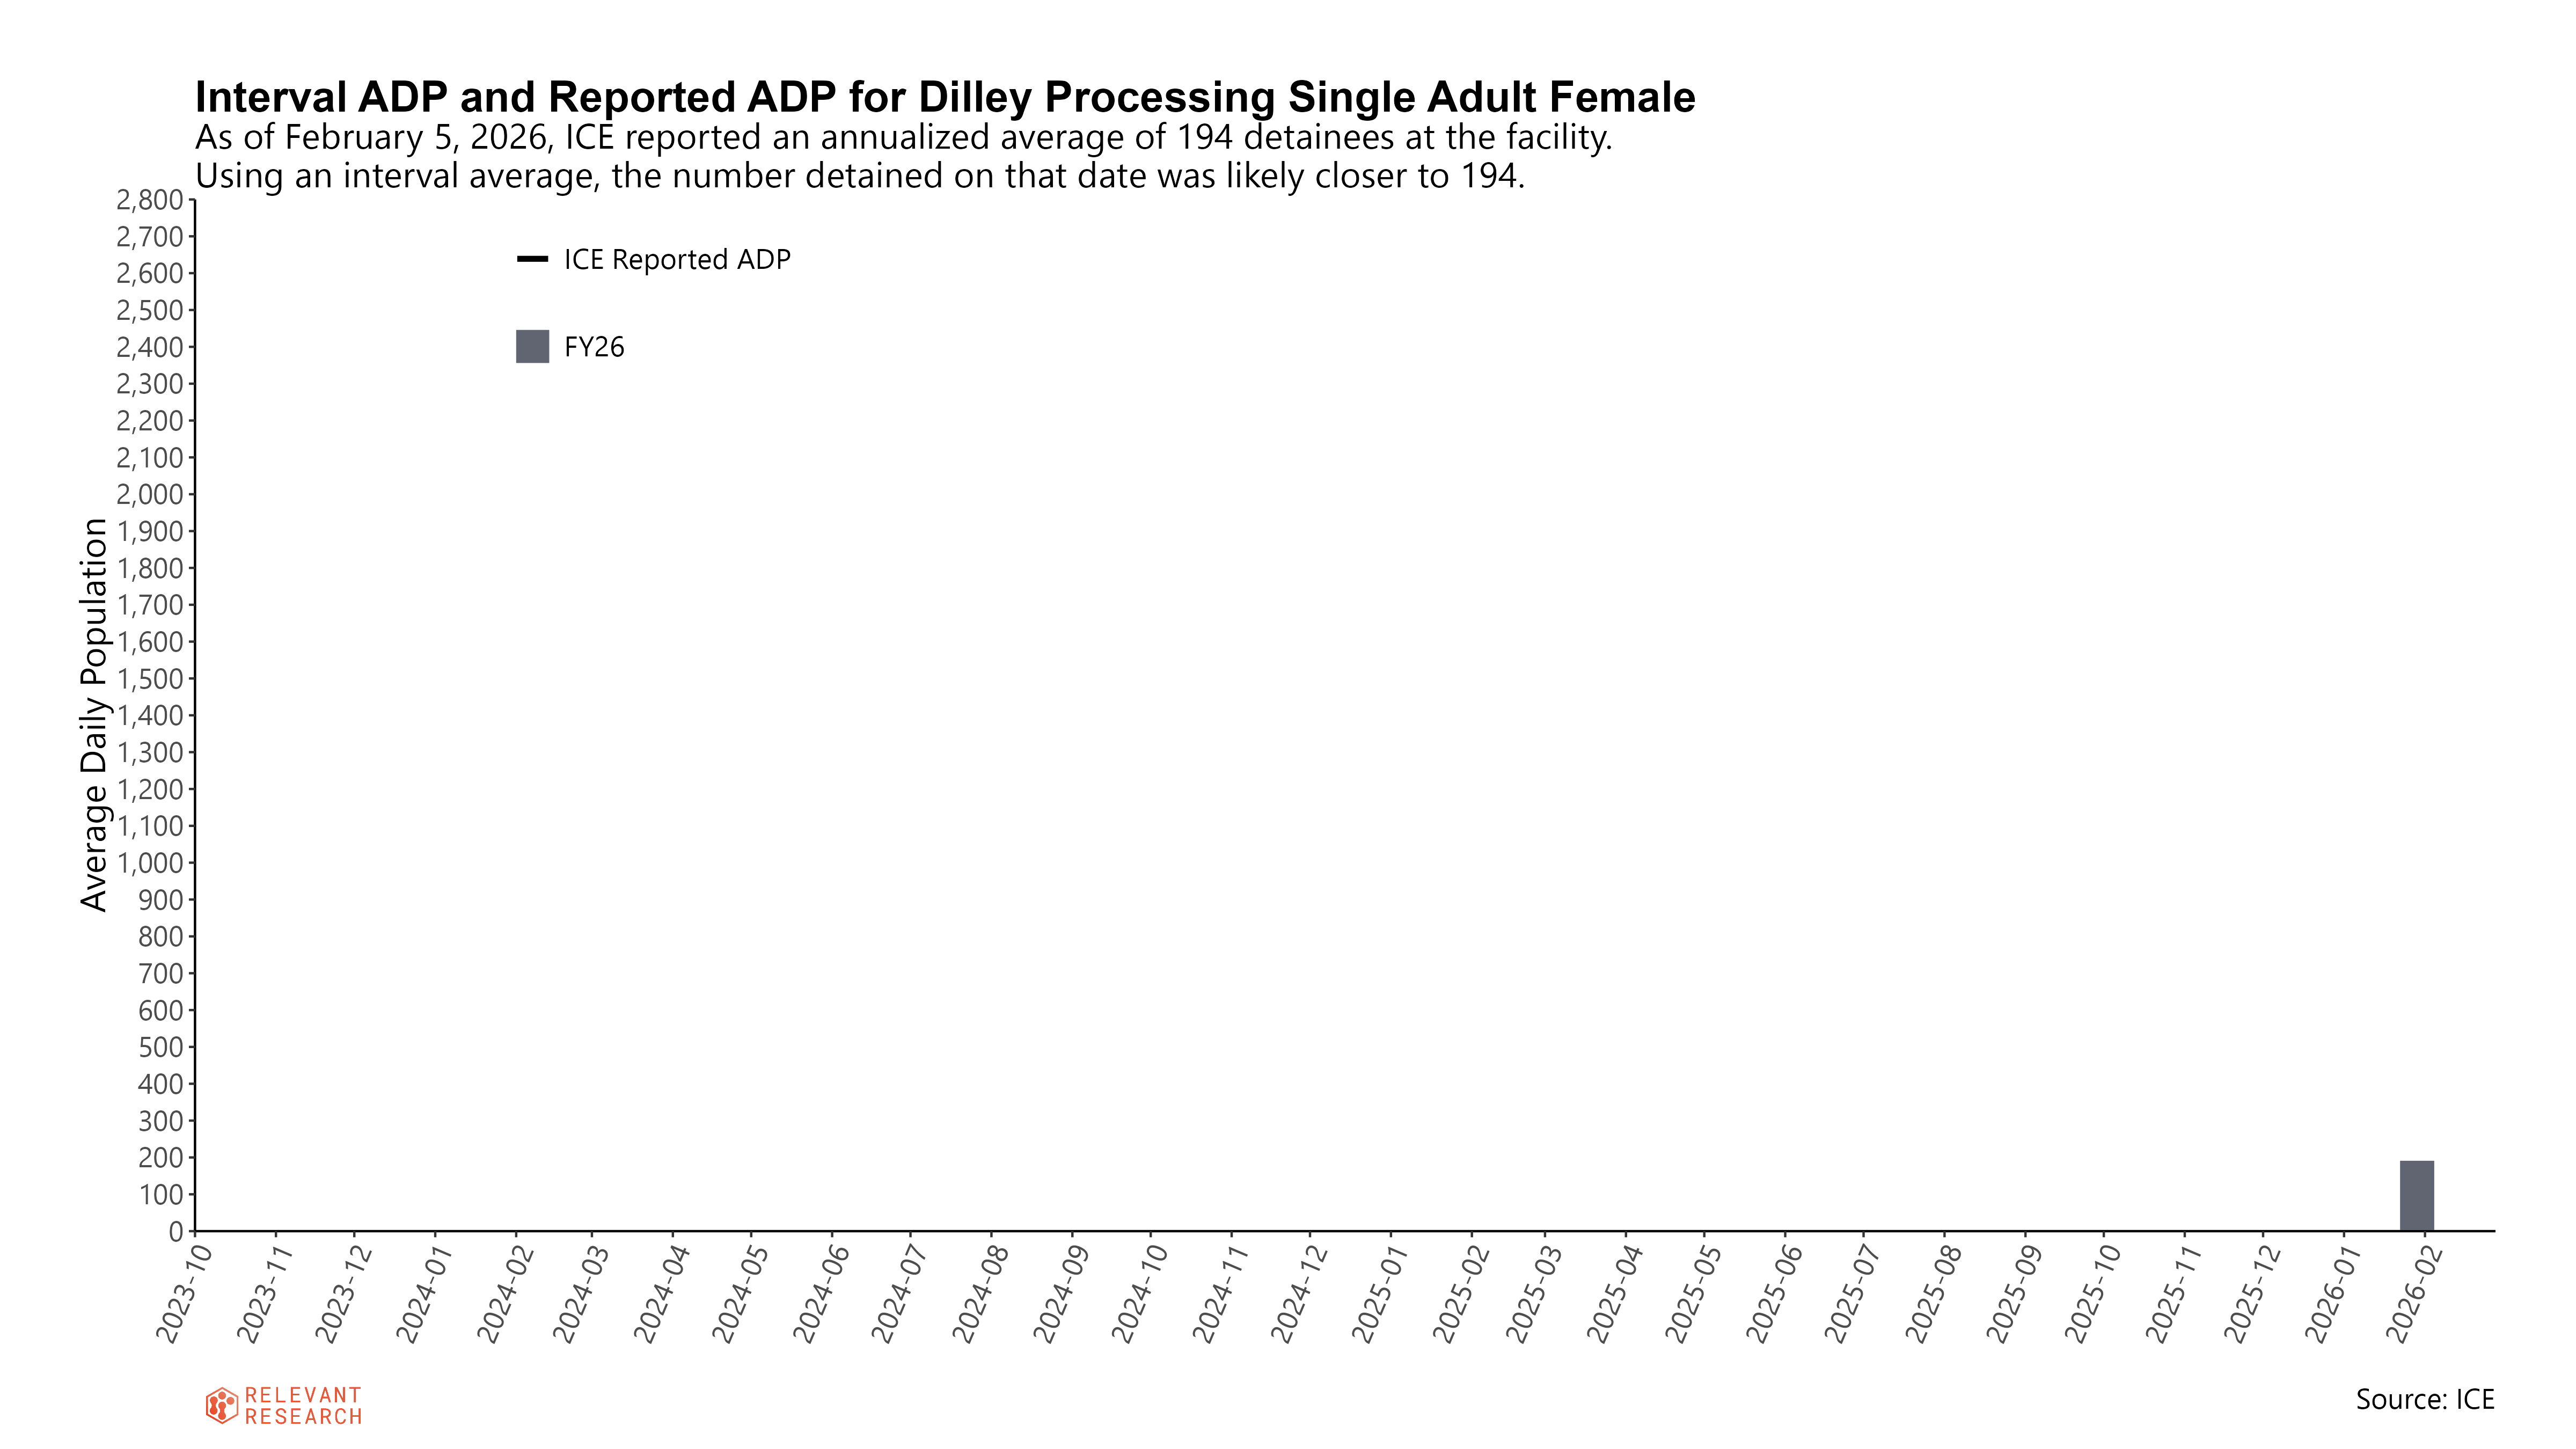
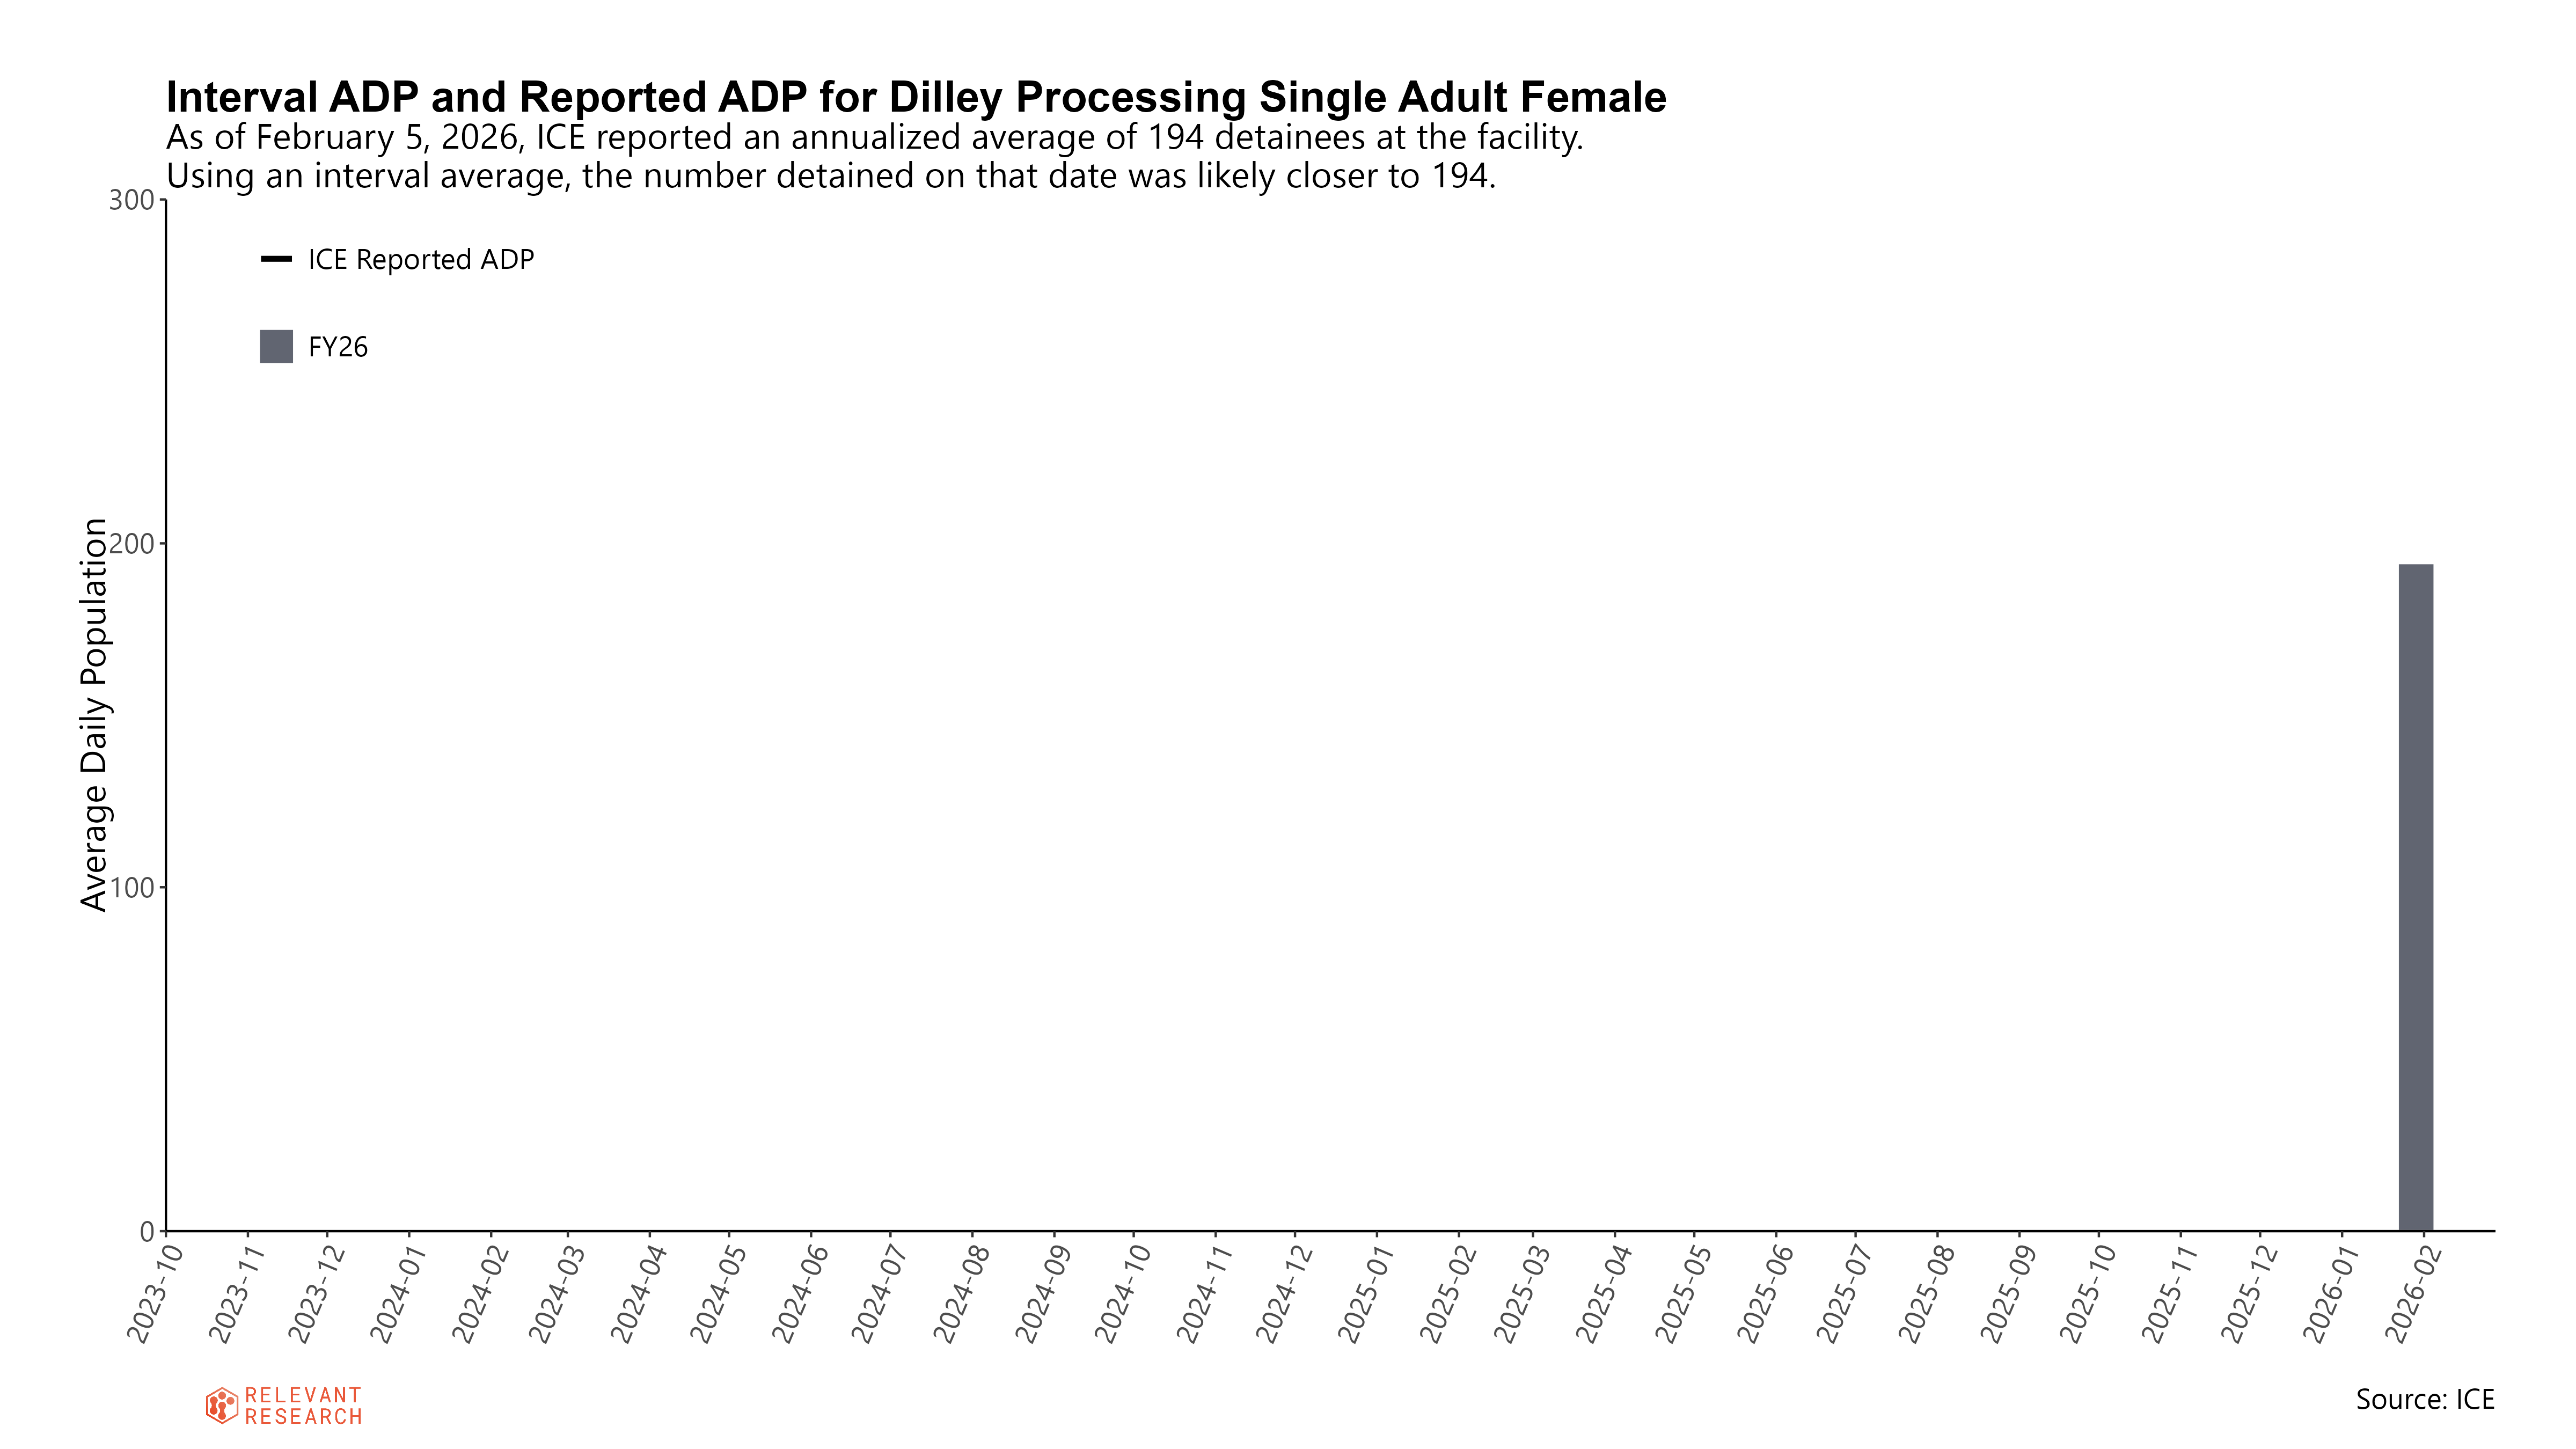
fixed tom and dilley single adult

diff --git a/facility/TOM_GREEN_COUNTY_JAIL.html b/facility/TOM_GREEN_COUNTY_JAIL.html
@@ -6711,8 +6711,8 @@ document.addEventListener('DOMContentLoaded', function() {
 <div class="map-container">
 <div class="cell">
 <div class="cell-output-display">
-<div id="htmlwidget-3be3c038cddf259991c4" style="width:100%;height:400px;" class="leaflet html-widget"></div>
-<script type="application/json" data-for="htmlwidget-3be3c038cddf259991c4">{"x":{"options":{"crs":{"crsClass":"L.CRS.EPSG3857","code":null,"proj4def":null,"projectedBounds":null,"options":{}}},"calls":[{"method":"addTiles","args":["https://{s}.tile.openstreetmap.org/{z}/{x}/{y}.png",null,null,{"minZoom":0,"maxZoom":18,"tileSize":256,"subdomains":"abc","errorTileUrl":"","tms":false,"noWrap":false,"zoomOffset":0,"zoomReverse":false,"opacity":1,"zIndex":1,"detectRetina":false,"attribution":"&copy; <a href=\"https://openstreetmap.org/copyright/\">OpenStreetMap<\/a>,  <a href=\"https://opendatacommons.org/licenses/odbl/\">ODbL<\/a>"}]},{"method":"addMarkers","args":[27.3363155,-82.5297583,null,null,null,{"interactive":true,"draggable":false,"keyboard":true,"title":"","alt":"","zIndexOffset":0,"opacity":1,"riseOnHover":false,"riseOffset":250},"<div style='text-align: center; font-family: Arial, sans-serif;'><h4 style='margin: 5px 0; color: #2c3e50;'>TOM GREEN COUNTY JAIL<\/h4><p style='margin: 5px 0;'><strong>122 WEST HARRIS AVENUE<\/strong><\/p><p style='margin: 5px 0;'>SAN ANGELO, TX 76903<\/p><p style='margin: 5px 0; color: #666;'>TX<\/p><\/div>",null,null,null,"Tom Green County Jail",{"interactive":false,"permanent":false,"direction":"auto","opacity":1,"offset":[0,0],"textsize":"10px","textOnly":false,"className":"","sticky":true},null]}],"setView":[[27.3363155,-82.5297583],10,[]],"limits":{"lat":[27.3363155,27.3363155],"lng":[-82.5297583,-82.5297583]}},"evals":[],"jsHooks":[]}</script>
+<div id="htmlwidget-41e5e1184b87e09274bc" style="width:100%;height:400px;" class="leaflet html-widget"></div>
+<script type="application/json" data-for="htmlwidget-41e5e1184b87e09274bc">{"x":{"options":{"crs":{"crsClass":"L.CRS.EPSG3857","code":null,"proj4def":null,"projectedBounds":null,"options":{}}},"calls":[{"method":"addTiles","args":["https://{s}.tile.openstreetmap.org/{z}/{x}/{y}.png",null,null,{"minZoom":0,"maxZoom":18,"tileSize":256,"subdomains":"abc","errorTileUrl":"","tms":false,"noWrap":false,"zoomOffset":0,"zoomReverse":false,"opacity":1,"zIndex":1,"detectRetina":false,"attribution":"&copy; <a href=\"https://openstreetmap.org/copyright/\">OpenStreetMap<\/a>,  <a href=\"https://opendatacommons.org/licenses/odbl/\">ODbL<\/a>"}]},{"method":"addMarkers","args":[31.4981223,-100.3669271,null,null,null,{"interactive":true,"draggable":false,"keyboard":true,"title":"","alt":"","zIndexOffset":0,"opacity":1,"riseOnHover":false,"riseOffset":250},"<div style='text-align: center; font-family: Arial, sans-serif;'><h4 style='margin: 5px 0; color: #2c3e50;'>TOM GREEN COUNTY JAIL<\/h4><p style='margin: 5px 0;'><strong>122 WEST HARRIS AVENUE<\/strong><\/p><p style='margin: 5px 0;'>SAN ANGELO, TX 76903<\/p><p style='margin: 5px 0; color: #666;'>TX<\/p><\/div>",null,null,null,"Tom Green County Jail",{"interactive":false,"permanent":false,"direction":"auto","opacity":1,"offset":[0,0],"textsize":"10px","textOnly":false,"className":"","sticky":true},null]}],"setView":[[31.4981223,-100.3669271],10,[]],"limits":{"lat":[31.4981223,31.4981223],"lng":[-100.3669271,-100.3669271]}},"evals":[],"jsHooks":[]}</script>
 </div>
 </div>
 <div style="background: #f8f9fa;
@@ -6828,7 +6828,7 @@ document.addEventListener('DOMContentLoaded', function() {
 <p><a href="https://detentionreports.com/"><em>Back to Detention Reports</em></a></p>
 <hr>
 <div style="text-align: center; color: #666; font-size: 0.9em; margin-top: 3rem;">
-<p><em>Report generated on February 14, 2026 using ICE Integrated Decision Support (IIDS) interval ADP data from February 5, 2026</em></p>
+<p><em>Report generated on February 18, 2026 using ICE Integrated Decision Support (IIDS) interval ADP data from February 5, 2026</em></p>
 <p>Developed by <a href="https://relevant-research.com/">Relevant Research</a>. For information about the methodology behind Interval ADP, <a href="https://relevant-research.com/work">click here</a>.</p>
 </div>
 </section>